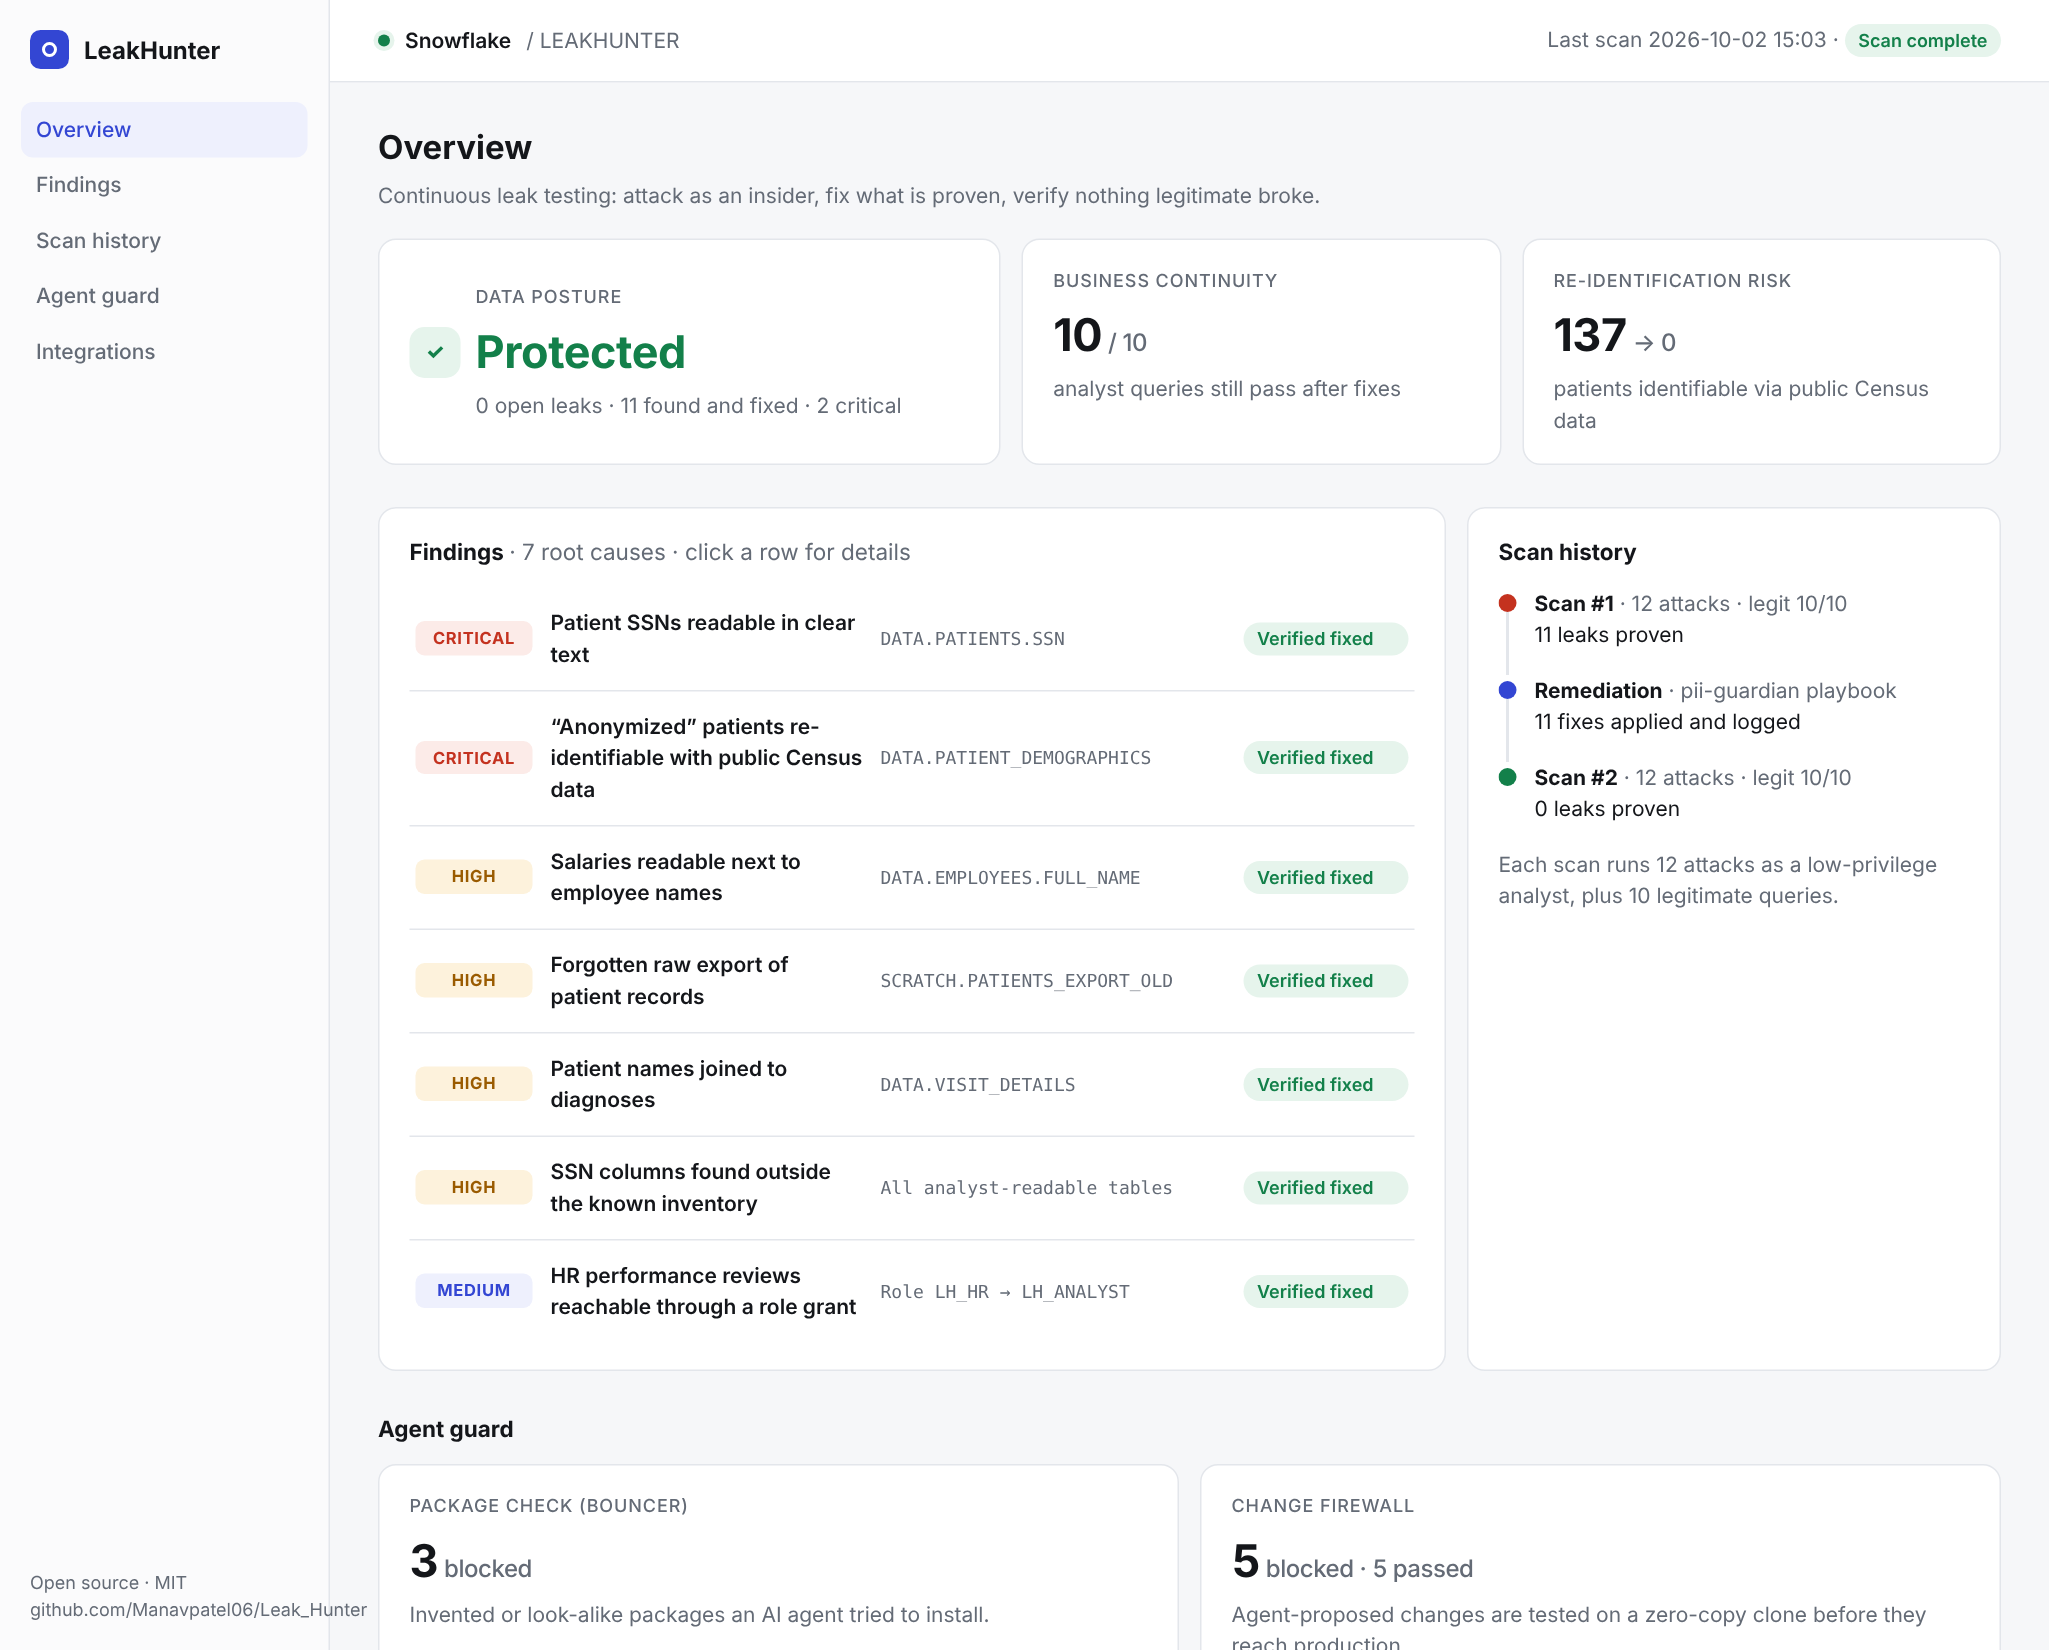
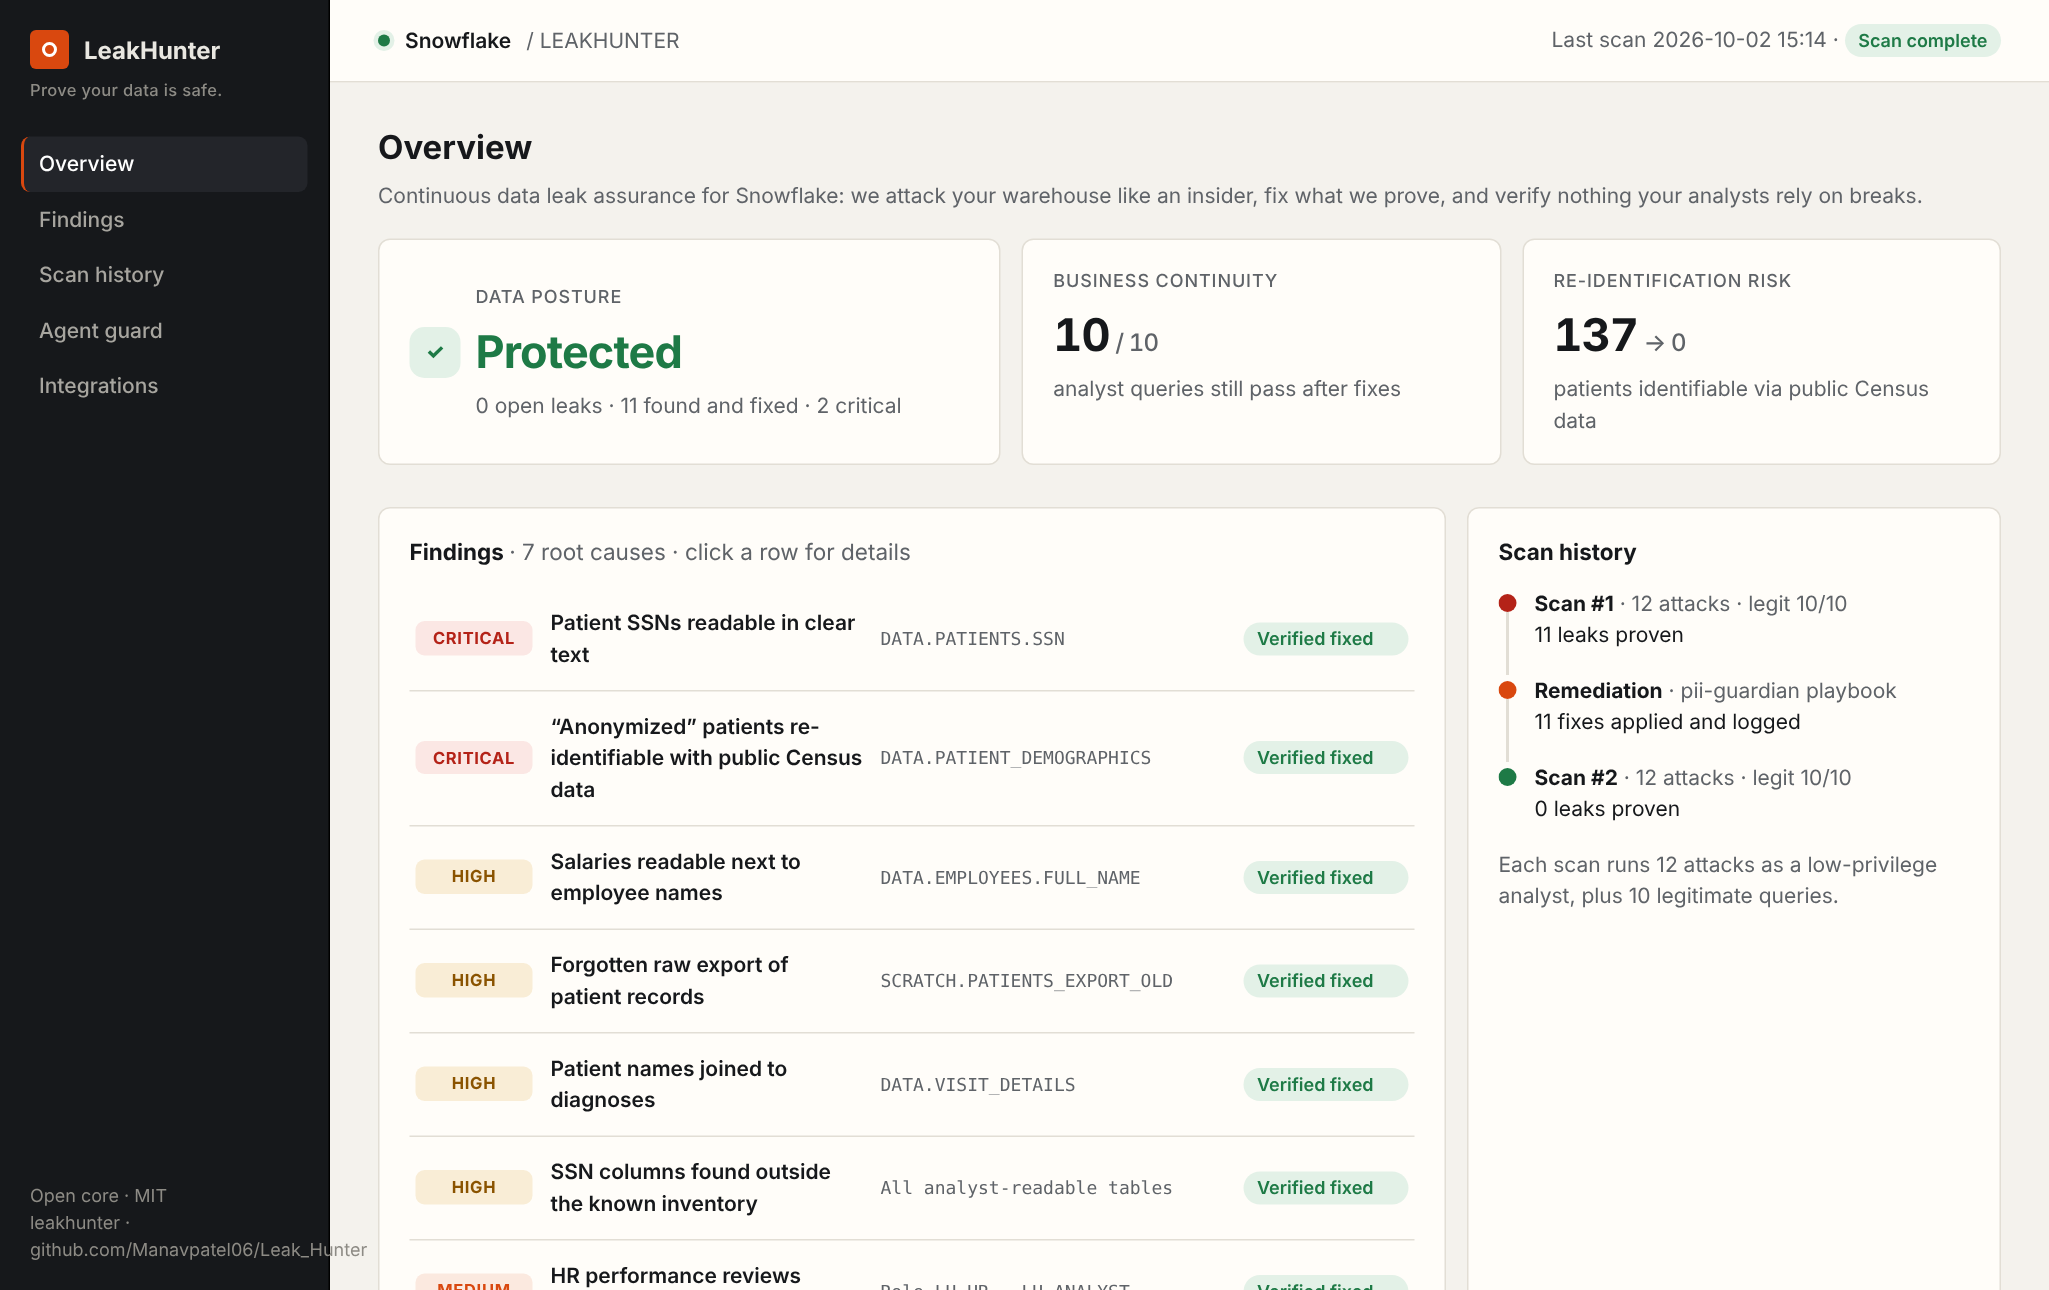
[brand] LeakHunter product look: graphite + signal orange, positioning

diff --git a/report/dashboard.html b/report/dashboard.html
@@ -1,29 +1,29 @@
 <!doctype html><html lang="en"><head><meta charset="utf-8">
-<meta name="viewport" content="width=device-width,initial-scale=1"><title>LeakHunter</title>
+<meta name="viewport" content="width=device-width,initial-scale=1"><title>LeakHunter · Data leak assurance for Snowflake</title>
 <style>
-:root{--bg:#f6f7f9;--panel:#fff;--ink:#14161a;--muted:#646b76;--line:#e3e6eb;--brand:#3346d3;--brandbg:#eef0fd;
---green:#13804a;--greenbg:#e6f4ec;--red:#c4321f;--redbg:#fcebe8;--amber:#9a5b00;--amberbg:#fdf2dc;--side:#fbfbfc}
-@media (prefers-color-scheme:dark){:root{--bg:#0f1114;--panel:#171a1f;--ink:#e8eaee;--muted:#9aa1ac;--line:#272b33;--brand:#8b98ff;--brandbg:#1d2140;
---green:#5fd39a;--greenbg:#12291d;--red:#ff8b7a;--redbg:#33170f;--amber:#f2c063;--amberbg:#33270f;--side:#13161a}}
+:root{--bg:#f4f2ed;--panel:#fffdf9;--ink:#16181b;--muted:#5f6368;--line:#e2ded5;--brand:#d9480f;--brandbg:#fbe9df;
+--green:#1e7a46;--greenbg:#e3f1e7;--red:#b42318;--redbg:#fbe7e4;--amber:#8a5300;--amberbg:#f9edd6;--side:#16181b}
+@media (prefers-color-scheme:dark){:root{--bg:#111214;--panel:#191a1d;--ink:#ecebe7;--muted:#9c9c97;--line:#2a2b2f;--brand:#ff7a3d;--brandbg:#33200f;
+--green:#62cf8f;--greenbg:#14281c;--red:#ff8a78;--redbg:#36170f;--amber:#f0bd5a;--amberbg:#34270e;--side:#0c0d0e}}
 *{box-sizing:border-box}body{margin:0;background:var(--bg);color:var(--ink);font:14px/1.5 Inter,system-ui,-apple-system,"Segoe UI",sans-serif}
 a{color:inherit;text-decoration:none}code,pre{font:12.5px/1.5 ui-monospace,"Cascadia Code",Consolas,monospace}
 .app{display:grid;grid-template-columns:220px 1fr;min-height:100vh}
-aside{background:var(--side);border-right:1px solid var(--line);padding:18px 14px;position:sticky;top:0;height:100vh}
+aside{background:var(--side);color:#e9e7e1;border-right:1px solid #000;padding:18px 14px;position:sticky;top:0;height:100vh}
 .logo{display:flex;align-items:center;gap:10px;font-weight:700;font-size:16px;margin:2px 6px 22px}
-.mark{width:26px;height:26px;border-radius:7px;background:var(--brand);display:grid;place-items:center}
+.mark{width:26px;height:26px;border-radius:4px;background:var(--brand);display:grid;place-items:center}
 .mark i{width:10px;height:10px;border:2.5px solid #fff;border-radius:50%}
-nav a{display:block;padding:8px 10px;border-radius:8px;color:var(--muted);font-weight:500}nav a:hover{background:var(--brandbg);color:var(--ink)}
-nav a.on{background:var(--brandbg);color:var(--brand)}
-.side-foot{position:absolute;bottom:18px;left:14px;right:14px;font-size:12px;color:var(--muted);padding:0 6px}
+nav a{display:block;padding:8px 10px;border-radius:6px;color:#a7a59f;font-weight:500;border-left:2px solid transparent}nav a:hover{color:#fff;background:#23252a}
+nav a.on{color:#fff;background:#23252a;border-left-color:var(--brand)}
+.side-foot{position:absolute;bottom:18px;left:14px;right:14px;font-size:12px;color:#8d8b85;padding:0 6px}.tag{font-size:11px;color:#8d8b85;font-weight:500;letter-spacing:.02em;margin:-16px 6px 22px}
 header{display:flex;align-items:center;justify-content:space-between;gap:12px;flex-wrap:wrap;padding:16px 32px;border-bottom:1px solid var(--line);background:var(--panel)}
 .ws{display:flex;align-items:center;gap:10px;font-weight:600}.ws .muted{font-weight:400}
 .live{width:8px;height:8px;border-radius:50%;background:var(--green);box-shadow:0 0 0 3px var(--greenbg)}
 main{padding:28px 32px 56px;max-width:1180px}h1{font-size:22px;margin:0 0 4px}h2{font-size:15px;margin:0 0 12px}
 .muted{color:var(--muted)}section{margin-top:28px;scroll-margin-top:16px}
-.panel{background:var(--panel);border:1px solid var(--line);border-radius:12px;padding:18px 20px}
+.panel{background:var(--panel);border:1px solid var(--line);border-radius:8px;padding:18px 20px}
 .cards{display:grid;grid-template-columns:1.3fr 1fr 1fr;gap:14px}
 .lab{font-size:12px;color:var(--muted);font-weight:500;text-transform:uppercase;letter-spacing:.05em}
-.big{font-size:30px;font-weight:700;margin:6px 0 2px;letter-spacing:-.01em}.big small{font-size:16px;color:var(--muted);font-weight:500}
+.big{font-size:30px;font-weight:700;margin:6px 0 2px;letter-spacing:-.02em;font-variant-numeric:tabular-nums}.big small{font-size:16px;color:var(--muted);font-weight:500}
 .status{display:flex;align-items:center;gap:10px}.status .big{color:var(--green)}.status.risk .big{color:var(--red)}
 .shield{width:34px;height:34px;border-radius:10px;background:var(--greenbg);display:grid;place-items:center;color:var(--green);font-weight:800}
 .risk .shield{background:var(--redbg);color:var(--red)}
@@ -46,13 +46,13 @@ table{width:100%;border-collapse:collapse}td,th{padding:9px 6px;border-top:1px s
 @media (max-width:900px){.app{grid-template-columns:1fr}aside{display:none}.cards,.grid2{grid-template-columns:1fr}
 .f summary{grid-template-columns:70px 1fr}.asset,.f summary .pill{display:none}.fd{padding-left:4px}main,header{padding-left:16px;padding-right:16px}}
 </style></head><body><div class="app">
-<aside><div class="logo"><span class="mark"><i></i></span>LeakHunter</div>
+<aside><div class="logo"><span class="mark"><i></i></span>LeakHunter</div><div class="tag">Prove your data is safe.</div>
 <nav><a class="on" href="#overview">Overview</a><a href="#findings">Findings</a><a href="#scans">Scan history</a><a href="#agents">Agent guard</a><a href="#integrations">Integrations</a></nav>
-<div class="side-foot">Open source · MIT<br>github.com/Manavpatel06/Leak_Hunter</div></aside>
+<div class="side-foot">Open source · MIT</div></aside>
 <div><header><div class="ws"><span class="live"></span>Snowflake <span class="muted">/ LEAKHUNTER</span></div>
 <div class="muted">Last scan 2026-10-02 15:14 · <span class="pill green">Scan complete</span></div></header>
 <main>
-<section id="overview" style="margin-top:0"><h1>Overview</h1><p class="muted" style="margin:0 0 18px">Continuous leak testing: attack as an insider, fix what is proven, verify nothing legitimate broke.</p>
+<section id="overview" style="margin-top:0"><h1>Overview</h1><p class="muted" style="margin:0 0 18px">Continuous data leak assurance for Snowflake: we attack your warehouse like an insider, fix what we prove, and verify nothing your analysts rely on breaks.</p>
 <div class="cards">
 <div class="panel status "><div class="shield">✓</div><div><div class="lab">Data posture</div><div class="big">Protected</div>
 <div class="muted">0 open leaks · 11 found and fixed · 2 critical</div></div></div>

diff --git a/report/dashboard.py b/report/dashboard.py
@@ -167,31 +167,31 @@ def build_html(d: dict) -> str:
     posture = "Protected" if board and open_now == 0 else ("At risk" if board else "Not scanned")
 
     return f"""<!doctype html><html lang="en"><head><meta charset="utf-8">
-<meta name="viewport" content="width=device-width,initial-scale=1"><title>LeakHunter</title>
+<meta name="viewport" content="width=device-width,initial-scale=1"><title>LeakHunter · Data leak assurance for Snowflake</title>
 <style>
-:root{{--bg:#f6f7f9;--panel:#fff;--ink:#14161a;--muted:#646b76;--line:#e3e6eb;--brand:#3346d3;--brandbg:#eef0fd;
---green:#13804a;--greenbg:#e6f4ec;--red:#c4321f;--redbg:#fcebe8;--amber:#9a5b00;--amberbg:#fdf2dc;--side:#fbfbfc}}
-@media (prefers-color-scheme:dark){{:root{{--bg:#0f1114;--panel:#171a1f;--ink:#e8eaee;--muted:#9aa1ac;--line:#272b33;--brand:#8b98ff;--brandbg:#1d2140;
---green:#5fd39a;--greenbg:#12291d;--red:#ff8b7a;--redbg:#33170f;--amber:#f2c063;--amberbg:#33270f;--side:#13161a}}}}
+:root{{--bg:#f4f2ed;--panel:#fffdf9;--ink:#16181b;--muted:#5f6368;--line:#e2ded5;--brand:#d9480f;--brandbg:#fbe9df;
+--green:#1e7a46;--greenbg:#e3f1e7;--red:#b42318;--redbg:#fbe7e4;--amber:#8a5300;--amberbg:#f9edd6;--side:#16181b}}
+@media (prefers-color-scheme:dark){{:root{{--bg:#111214;--panel:#191a1d;--ink:#ecebe7;--muted:#9c9c97;--line:#2a2b2f;--brand:#ff7a3d;--brandbg:#33200f;
+--green:#62cf8f;--greenbg:#14281c;--red:#ff8a78;--redbg:#36170f;--amber:#f0bd5a;--amberbg:#34270e;--side:#0c0d0e}}}}
 *{{box-sizing:border-box}}body{{margin:0;background:var(--bg);color:var(--ink);font:14px/1.5 Inter,system-ui,-apple-system,"Segoe UI",sans-serif}}
 a{{color:inherit;text-decoration:none}}code,pre{{font:12.5px/1.5 ui-monospace,"Cascadia Code",Consolas,monospace}}
 .app{{display:grid;grid-template-columns:220px 1fr;min-height:100vh}}
-aside{{background:var(--side);border-right:1px solid var(--line);padding:18px 14px;position:sticky;top:0;height:100vh}}
+aside{{background:var(--side);color:#e9e7e1;border-right:1px solid #000;padding:18px 14px;position:sticky;top:0;height:100vh}}
 .logo{{display:flex;align-items:center;gap:10px;font-weight:700;font-size:16px;margin:2px 6px 22px}}
-.mark{{width:26px;height:26px;border-radius:7px;background:var(--brand);display:grid;place-items:center}}
+.mark{{width:26px;height:26px;border-radius:4px;background:var(--brand);display:grid;place-items:center}}
 .mark i{{width:10px;height:10px;border:2.5px solid #fff;border-radius:50%}}
-nav a{{display:block;padding:8px 10px;border-radius:8px;color:var(--muted);font-weight:500}}nav a:hover{{background:var(--brandbg);color:var(--ink)}}
-nav a.on{{background:var(--brandbg);color:var(--brand)}}
-.side-foot{{position:absolute;bottom:18px;left:14px;right:14px;font-size:12px;color:var(--muted);padding:0 6px}}
+nav a{{display:block;padding:8px 10px;border-radius:6px;color:#a7a59f;font-weight:500;border-left:2px solid transparent}}nav a:hover{{color:#fff;background:#23252a}}
+nav a.on{{color:#fff;background:#23252a;border-left-color:var(--brand)}}
+.side-foot{{position:absolute;bottom:18px;left:14px;right:14px;font-size:12px;color:#8d8b85;padding:0 6px}}.tag{{font-size:11px;color:#8d8b85;font-weight:500;letter-spacing:.02em;margin:-16px 6px 22px}}
 header{{display:flex;align-items:center;justify-content:space-between;gap:12px;flex-wrap:wrap;padding:16px 32px;border-bottom:1px solid var(--line);background:var(--panel)}}
 .ws{{display:flex;align-items:center;gap:10px;font-weight:600}}.ws .muted{{font-weight:400}}
 .live{{width:8px;height:8px;border-radius:50%;background:var(--green);box-shadow:0 0 0 3px var(--greenbg)}}
 main{{padding:28px 32px 56px;max-width:1180px}}h1{{font-size:22px;margin:0 0 4px}}h2{{font-size:15px;margin:0 0 12px}}
 .muted{{color:var(--muted)}}section{{margin-top:28px;scroll-margin-top:16px}}
-.panel{{background:var(--panel);border:1px solid var(--line);border-radius:12px;padding:18px 20px}}
+.panel{{background:var(--panel);border:1px solid var(--line);border-radius:8px;padding:18px 20px}}
 .cards{{display:grid;grid-template-columns:1.3fr 1fr 1fr;gap:14px}}
 .lab{{font-size:12px;color:var(--muted);font-weight:500;text-transform:uppercase;letter-spacing:.05em}}
-.big{{font-size:30px;font-weight:700;margin:6px 0 2px;letter-spacing:-.01em}}.big small{{font-size:16px;color:var(--muted);font-weight:500}}
+.big{{font-size:30px;font-weight:700;margin:6px 0 2px;letter-spacing:-.02em;font-variant-numeric:tabular-nums}}.big small{{font-size:16px;color:var(--muted);font-weight:500}}
 .status{{display:flex;align-items:center;gap:10px}}.status .big{{color:var(--green)}}.status.risk .big{{color:var(--red)}}
 .shield{{width:34px;height:34px;border-radius:10px;background:var(--greenbg);display:grid;place-items:center;color:var(--green);font-weight:800}}
 .risk .shield{{background:var(--redbg);color:var(--red)}}
@@ -214,13 +214,13 @@ table{{width:100%;border-collapse:collapse}}td,th{{padding:9px 6px;border-top:1p
 @media (max-width:900px){{.app{{grid-template-columns:1fr}}aside{{display:none}}.cards,.grid2{{grid-template-columns:1fr}}
 .f summary{{grid-template-columns:70px 1fr}}.asset,.f summary .pill{{display:none}}.fd{{padding-left:4px}}main,header{{padding-left:16px;padding-right:16px}}}}
 </style></head><body><div class="app">
-<aside><div class="logo"><span class="mark"><i></i></span>LeakHunter</div>
+<aside><div class="logo"><span class="mark"><i></i></span>LeakHunter</div><div class="tag">Prove your data is safe.</div>
 <nav><a class="on" href="#overview">Overview</a><a href="#findings">Findings</a><a href="#scans">Scan history</a><a href="#agents">Agent guard</a><a href="#integrations">Integrations</a></nav>
-<div class="side-foot">Open source · MIT<br>github.com/Manavpatel06/Leak_Hunter</div></aside>
+<div class="side-foot">Open source · MIT</div></aside>
 <div><header><div class="ws"><span class="live"></span>Snowflake <span class="muted">/ LEAKHUNTER</span></div>
 <div class="muted">Last scan {e(d.get('generated_at'))} · <span class="pill green">Scan complete</span></div></header>
 <main>
-<section id="overview" style="margin-top:0"><h1>Overview</h1><p class="muted" style="margin:0 0 18px">Continuous leak testing: attack as an insider, fix what is proven, verify nothing legitimate broke.</p>
+<section id="overview" style="margin-top:0"><h1>Overview</h1><p class="muted" style="margin:0 0 18px">Continuous data leak assurance for Snowflake: we attack your warehouse like an insider, fix what we prove, and verify nothing your analysts rely on breaks.</p>
 <div class="cards">
 <div class="panel status {'' if posture == 'Protected' else 'risk'}"><div class="shield">{'✓' if posture == 'Protected' else '!'}</div><div><div class="lab">Data posture</div><div class="big">{posture}</div>
 <div class="muted">{open_now} open leaks · {found} found and fixed · {crit} critical</div></div></div>

diff --git a/README.md b/README.md
@@ -1,6 +1,6 @@
 # LeakHunter
 
-**Continuous leak testing for your data warehouse.** LeakHunter attacks your warehouse the way a curious insider would, fixes every leak it can prove, and then re-checks that the fixes hold without breaking anyone's legitimate work.
+**Prove your data is safe.** LeakHunter is continuous data leak assurance for Snowflake: it attacks your warehouse the way a curious insider would, fixes every leak it can prove, and then re-checks that the fixes hold without breaking anyone's legitimate work.
 
 Built at sunhacks Hack Day 2026 (MLH Hacktoberfest) · MIT licensed
 
